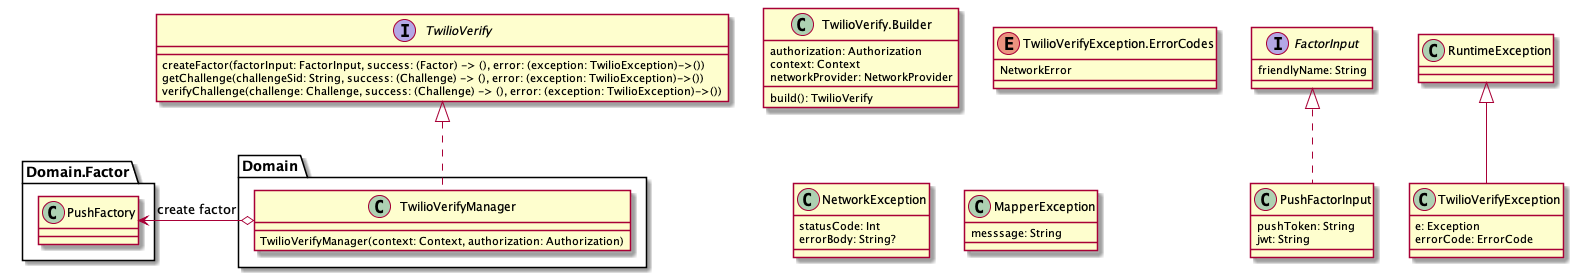
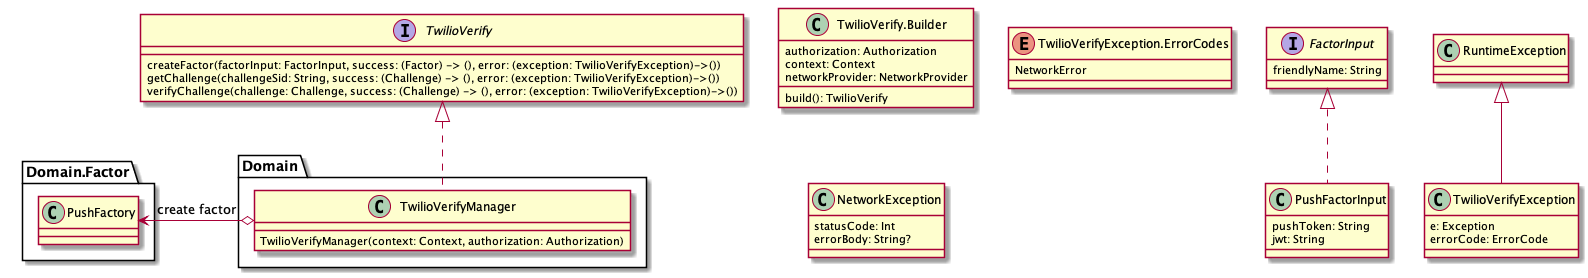
Create TwilioVerify interface. Create manager. Change visibilty. Create factor input

diff --git a/verify/src/main/java/com/twilio/verify/TwilioVerify.kt b/verify/src/main/java/com/twilio/verify/TwilioVerify.kt
@@ -1,0 +1,39 @@
+/*
+ * Copyright (c) 2020, Twilio Inc.
+ */
+package com.twilio.verify
+
+import android.content.Context
+import com.twilio.verify.api.FactorAPIClient
+import com.twilio.verify.domain.TwilioVerifyManager
+import com.twilio.verify.domain.factor.FactorRepository
+import com.twilio.verify.domain.factor.PushFactory
+import com.twilio.verify.models.Factor
+import com.twilio.verify.models.FactorInput
+import com.twilio.verify.networking.Authorization
+import com.twilio.verify.networking.NetworkAdapter
+import com.twilio.verify.networking.NetworkProvider
+
+interface TwilioVerify {
+  fun createFactor(
+    factorInput: FactorInput,
+    success: (Factor) -> Unit,
+    error: (TwilioVerifyException)
+  )
+
+  class Builder(
+    private var context: Context,
+    private var authorization: Authorization
+  ) {
+    private var networkProvider: NetworkProvider = NetworkAdapter()
+    fun networkProvider(networkProvider: NetworkProvider) =
+      apply { this.networkProvider = networkProvider }
+
+    fun build(): TwilioVerify {
+      val repository = FactorRepository(
+          context, FactorAPIClient(networkProvider, context, authorization)
+      )
+      return TwilioVerifyManager(PushFactory(repository))
+    }
+  }
+}

diff --git a/verify/src/test/java/com/twilio/verify/domain/factor/PushFactoryTest.kt b/verify/src/test/java/com/twilio/verify/domain/factor/PushFactoryTest.kt
@@ -3,8 +3,6 @@
  */
 package com.twilio.verify.domain.factor
 
-import android.content.Context
-import androidx.test.core.app.ApplicationProvider
 import com.nhaarman.mockitokotlin2.any
 import com.nhaarman.mockitokotlin2.argumentCaptor
 import com.nhaarman.mockitokotlin2.check
@@ -18,7 +16,6 @@ import com.twilio.verify.data.KeyStorage
 import com.twilio.verify.data.KeyStorageException
 import com.twilio.verify.domain.factor.models.PushFactor
 import com.twilio.verify.models.FactorType.Push
-import com.twilio.verify.networking.Authorization
 import org.junit.Assert.assertEquals
 import org.junit.Assert.assertNotNull
 import org.junit.Assert.assertTrue
@@ -34,12 +31,7 @@ class PushFactoryTest {
 
   private val factorProvider: FactorProvider = mock()
   private val keyStorage: KeyStorage = mock()
-  private val authorization: Authorization = mock()
-  private val pushFactory =
-    PushFactory(
-        ApplicationProvider.getApplicationContext<Context>(), authorization, factorProvider,
-        keyStorage
-    )
+  private val pushFactory = PushFactory(factorProvider, keyStorage)
 
   @Test
   fun `Create factor with valid JWT should call success lambda`() {

diff --git a/verify/src/main/java/com/twilio/verify/domain/factor/FactorRepository.kt b/verify/src/main/java/com/twilio/verify/domain/factor/FactorRepository.kt
@@ -8,21 +8,16 @@ import com.twilio.verify.TwilioVerifyException
 import com.twilio.verify.TwilioVerifyException.ErrorCode.StorageError
 import com.twilio.verify.api.FactorAPIClient
 import com.twilio.verify.data.Storage
-import com.twilio.verify.data.StorageProvider
 import com.twilio.verify.data.StorageException
+import com.twilio.verify.data.StorageProvider
 import com.twilio.verify.domain.factor.models.FactorPayload
 import com.twilio.verify.models.Factor
-import com.twilio.verify.networking.Authorization
 
 private const val sharedPreferencesName = "TwilioVerify"
 
 internal class FactorRepository(
   context: Context,
-  authorization: Authorization,
-  private val apiClient: FactorAPIClient = FactorAPIClient(
-      context = context,
-      authorization = authorization
-  ),
+  private val apiClient: FactorAPIClient,
   private val storage: StorageProvider = Storage(
       context.getSharedPreferences(sharedPreferencesName, Context.MODE_PRIVATE)
   ),

diff --git a/verify/src/main/java/com/twilio/verify/domain/factor/PushFactory.kt b/verify/src/main/java/com/twilio/verify/domain/factor/PushFactory.kt
@@ -3,7 +3,6 @@
  */
 package com.twilio.verify.domain.factor
 
-import android.content.Context
 import com.twilio.verify.TwilioVerifyException
 import com.twilio.verify.TwilioVerifyException.ErrorCode.InputError
 import com.twilio.verify.data.KeyStorage
@@ -13,15 +12,12 @@ import com.twilio.verify.domain.factor.models.PushFactor
 import com.twilio.verify.domain.factor.models.toEnrollmentJWT
 import com.twilio.verify.models.Factor
 import com.twilio.verify.models.FactorType.Push
-import com.twilio.verify.networking.Authorization
 
 internal const val pushTokenKey = "push_token"
 internal const val publicKeyKey = "public_key"
 
 internal class PushFactory(
-  context: Context,
-  authorization: Authorization,
-  private val factorProvider: FactorProvider = FactorRepository(context, authorization),
+  private val factorProvider: FactorProvider,
   private val keyStorage: KeyStorage = KeyStoreAdapter()
 ) {
   fun create(

diff --git a/verify/src/test/java/com/twilio/verify/domain/factor/FactorRepositoryTest.kt b/verify/src/test/java/com/twilio/verify/domain/factor/FactorRepositoryTest.kt
@@ -20,7 +20,6 @@ import com.twilio.verify.data.StorageProvider
 import com.twilio.verify.domain.factor.models.FactorPayload
 import com.twilio.verify.models.Factor
 import com.twilio.verify.models.FactorType.Push
-import com.twilio.verify.networking.Authorization
 import org.hamcrest.Matchers.instanceOf
 import org.json.JSONObject
 import org.junit.Assert.assertEquals
@@ -41,9 +40,8 @@ class FactorRepositoryTest {
   private val apiClient: FactorAPIClient = mock()
   private val storage: StorageProvider = mock()
   private val factorMapper: FactorMapper = mock()
-  private val authorization: Authorization = mock()
   private val factorRepository = FactorRepository(
-      ApplicationProvider.getApplicationContext<Context>(), authorization, apiClient, storage,
+      ApplicationProvider.getApplicationContext<Context>(), apiClient, storage,
       factorMapper
   )
 

diff --git a/verify/src/main/java/com/twilio/verify/domain/TwilioVerifyManager.kt b/verify/src/main/java/com/twilio/verify/domain/TwilioVerifyManager.kt
@@ -1,0 +1,23 @@
+/*
+ * Copyright (c) 2020, Twilio Inc.
+ */
+package com.twilio.verify.domain
+
+import com.twilio.verify.TwilioVerify
+import com.twilio.verify.TwilioVerifyException
+import com.twilio.verify.domain.factor.PushFactory
+import com.twilio.verify.models.Factor
+import com.twilio.verify.models.FactorInput
+
+internal class TwilioVerifyManager(private val pushFactory: PushFactory) :
+    TwilioVerify {
+  override fun createFactor(
+    factorInput: FactorInput,
+    success: (Factor) -> Unit,
+    error: (TwilioVerifyException)
+  ) {
+    TODO(
+        "not implemented"
+    )
+  }
+}

diff --git a/verify/src/main/java/com/twilio/verify/api/FactorAPIClient.kt b/verify/src/main/java/com/twilio/verify/api/FactorAPIClient.kt
@@ -33,13 +33,13 @@ internal const val factorType = "FactorType"
 internal const val binding = "Binding"
 internal const val authPayloadParam = "AuthPayload"
 
-class FactorAPIClient(
+internal class FactorAPIClient(
   private val networkProvider: NetworkProvider = NetworkAdapter(),
   private val context: Context,
   private val authorization: Authorization
 ) {
 
-  internal fun create(
+  fun create(
     factorPayload: FactorPayload,
     success: (response: JSONObject) -> Unit,
     error: (TwilioVerifyException) -> Unit

diff --git a/verify/src/main/java/com/twilio/verify/networking/Request.kt b/verify/src/main/java/com/twilio/verify/networking/Request.kt
@@ -9,11 +9,11 @@ import java.net.URL
  * Copyright (c) 2020, Twilio Inc.
  */
 class Request internal constructor(
-  internal val httpMethod: HttpMethod,
-  internal val url: URL,
-  internal val body: Map<String, Any?>?,
-  internal val headers: Map<String, String>,
-  internal val tag: String
+  val httpMethod: HttpMethod,
+  val url: URL,
+  val body: Map<String, Any?>?,
+  val headers: Map<String, String>,
+  val tag: String
 ) {
 
   fun getParams(): String? {

diff --git a/verify/src/test/java/com/twilio/verify/api/FactorAPIClientTest.kt b/verify/src/test/java/com/twilio/verify/api/FactorAPIClientTest.kt
@@ -37,9 +37,9 @@ import java.net.URL
 @Config(manifest = Config.NONE)
 class FactorAPIClientTest {
 
-  lateinit var factorAPIClient: FactorAPIClient
-  lateinit var networkProvider: NetworkProvider
-  lateinit var authorization: Authorization
+  private lateinit var factorAPIClient: FactorAPIClient
+  private lateinit var networkProvider: NetworkProvider
+  private lateinit var authorization: Authorization
 
   @Before
   fun setup() {

diff --git a/verify/src/main/java/com/twilio/verify/data/Storage.kt b/verify/src/main/java/com/twilio/verify/data/Storage.kt
@@ -5,7 +5,7 @@ package com.twilio.verify.data
 
 import android.content.SharedPreferences
 
-class Storage(private val sharedPreferences: SharedPreferences) : StorageProvider {
+internal class Storage(private val sharedPreferences: SharedPreferences) : StorageProvider {
   override fun save(
     key: String,
     value: String

diff --git a/verify/src/main/java/com/twilio/verify/data/KeyStoreAdapter.kt b/verify/src/main/java/com/twilio/verify/data/KeyStoreAdapter.kt
@@ -13,7 +13,7 @@ import java.security.Signature
 
 private const val provider = "AndroidKeyStore"
 
-class KeyStoreAdapter : KeyStorage {
+internal class KeyStoreAdapter : KeyStorage {
   override fun create(alias: String): String {
     return try {
       val keyPairGenerator = KeyPairGenerator.getInstance(

diff --git a/verify/src/test/java/com/twilio/verify/networking/NetworkAdapterTest.kt b/verify/src/test/java/com/twilio/verify/networking/NetworkAdapterTest.kt
@@ -22,7 +22,7 @@ import javax.net.ssl.HttpsURLConnection
 @RunWith(RobolectricTestRunner::class)
 class NetworkAdapterTest {
 
-  lateinit var networkAdapter: NetworkAdapter
+  private lateinit var networkAdapter: NetworkAdapter
   lateinit var request: Request
 
   @Before
